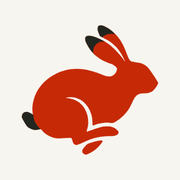
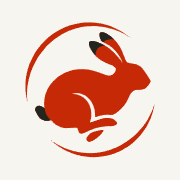
Wear the new Jackrabbit mark
The favicon set is regenerated from the new identity's mark — the
running jackrabbit in a broken motion circle, rust with moss accents —
rendered from the SVG at every size: multi-resolution favicon.ico
(16/32/48), the 32px PNG, the 180px apple-touch icon on paper, and the
footer's 40px icon. Icon links carry ?v=3 because favicons are the
most stubbornly cached files on the web.

diff --git a/about.html b/about.html
@@ -20,9 +20,9 @@
   <link rel="preload" href="assets/fonts/fraunces-latin-var.woff2" as="font" type="font/woff2" crossorigin>
   <link rel="preload" href="assets/fonts/plex-mono-400.woff2" as="font" type="font/woff2" crossorigin>
   <link rel="stylesheet" href="css/app.css?v=20260822">
-  <link rel="icon" href="assets/favicon.ico" sizes="any">
-  <link rel="icon" type="image/png" sizes="32x32" href="assets/favicon-32x32.png">
-  <link rel="apple-touch-icon" sizes="180x180" href="assets/apple-touch-icon.png">
+  <link rel="icon" href="assets/favicon.ico?v=3" sizes="any">
+  <link rel="icon" type="image/png" sizes="32x32" href="assets/favicon-32x32.png?v=3">
+  <link rel="apple-touch-icon" sizes="180x180" href="assets/apple-touch-icon.png?v=3">
 </head>
 <body class="min-h-screen flex flex-col">
   <header id="site-header"></header>

diff --git a/bowen.html b/bowen.html
@@ -20,9 +20,9 @@
   <link rel="preload" href="assets/fonts/fraunces-latin-var.woff2" as="font" type="font/woff2" crossorigin>
   <link rel="preload" href="assets/fonts/plex-mono-400.woff2" as="font" type="font/woff2" crossorigin>
   <link rel="stylesheet" href="css/app.css?v=20260822">
-  <link rel="icon" href="assets/favicon.ico" sizes="any">
-  <link rel="icon" type="image/png" sizes="32x32" href="assets/favicon-32x32.png">
-  <link rel="apple-touch-icon" sizes="180x180" href="assets/apple-touch-icon.png">
+  <link rel="icon" href="assets/favicon.ico?v=3" sizes="any">
+  <link rel="icon" type="image/png" sizes="32x32" href="assets/favicon-32x32.png?v=3">
+  <link rel="apple-touch-icon" sizes="180x180" href="assets/apple-touch-icon.png?v=3">
 </head>
 <body class="min-h-screen flex flex-col">
   <header id="site-header"></header>

diff --git a/browse.html b/browse.html
@@ -20,9 +20,9 @@
   <link rel="preload" href="assets/fonts/fraunces-latin-var.woff2" as="font" type="font/woff2" crossorigin>
   <link rel="preload" href="assets/fonts/plex-mono-400.woff2" as="font" type="font/woff2" crossorigin>
   <link rel="stylesheet" href="css/app.css?v=20260822">
-  <link rel="icon" href="assets/favicon.ico" sizes="any">
-  <link rel="icon" type="image/png" sizes="32x32" href="assets/favicon-32x32.png">
-  <link rel="apple-touch-icon" sizes="180x180" href="assets/apple-touch-icon.png">
+  <link rel="icon" href="assets/favicon.ico?v=3" sizes="any">
+  <link rel="icon" type="image/png" sizes="32x32" href="assets/favicon-32x32.png?v=3">
+  <link rel="apple-touch-icon" sizes="180x180" href="assets/apple-touch-icon.png?v=3">
 </head>
 <body class="min-h-screen flex flex-col">
   <header id="site-header"></header>

diff --git a/dog.html b/dog.html
@@ -18,9 +18,9 @@
   <link rel="preload" href="assets/fonts/fraunces-latin-var.woff2" as="font" type="font/woff2" crossorigin>
   <link rel="preload" href="assets/fonts/plex-mono-400.woff2" as="font" type="font/woff2" crossorigin>
   <link rel="stylesheet" href="css/app.css?v=20260822">
-  <link rel="icon" href="assets/favicon.ico" sizes="any">
-  <link rel="icon" type="image/png" sizes="32x32" href="assets/favicon-32x32.png">
-  <link rel="apple-touch-icon" sizes="180x180" href="assets/apple-touch-icon.png">
+  <link rel="icon" href="assets/favicon.ico?v=3" sizes="any">
+  <link rel="icon" type="image/png" sizes="32x32" href="assets/favicon-32x32.png?v=3">
+  <link rel="apple-touch-icon" sizes="180x180" href="assets/apple-touch-icon.png?v=3">
 </head>
 <body class="min-h-screen flex flex-col">
   <header id="site-header"></header>

diff --git a/events.html b/events.html
@@ -20,9 +20,9 @@
   <link rel="preload" href="assets/fonts/fraunces-latin-var.woff2" as="font" type="font/woff2" crossorigin>
   <link rel="preload" href="assets/fonts/plex-mono-400.woff2" as="font" type="font/woff2" crossorigin>
   <link rel="stylesheet" href="css/app.css?v=20260822">
-  <link rel="icon" href="assets/favicon.ico" sizes="any">
-  <link rel="icon" type="image/png" sizes="32x32" href="assets/favicon-32x32.png">
-  <link rel="apple-touch-icon" sizes="180x180" href="assets/apple-touch-icon.png">
+  <link rel="icon" href="assets/favicon.ico?v=3" sizes="any">
+  <link rel="icon" type="image/png" sizes="32x32" href="assets/favicon-32x32.png?v=3">
+  <link rel="apple-touch-icon" sizes="180x180" href="assets/apple-touch-icon.png?v=3">
 </head>
 <body class="min-h-screen flex flex-col">
   <header id="site-header"></header>

diff --git a/index.html b/index.html
@@ -20,9 +20,9 @@
   <link rel="preload" href="assets/fonts/fraunces-latin-var.woff2" as="font" type="font/woff2" crossorigin>
   <link rel="preload" href="assets/fonts/plex-mono-400.woff2" as="font" type="font/woff2" crossorigin>
   <link rel="stylesheet" href="css/app.css?v=20260822">
-  <link rel="icon" href="assets/favicon.ico" sizes="any">
-  <link rel="icon" type="image/png" sizes="32x32" href="assets/favicon-32x32.png">
-  <link rel="apple-touch-icon" sizes="180x180" href="assets/apple-touch-icon.png">
+  <link rel="icon" href="assets/favicon.ico?v=3" sizes="any">
+  <link rel="icon" type="image/png" sizes="32x32" href="assets/favicon-32x32.png?v=3">
+  <link rel="apple-touch-icon" sizes="180x180" href="assets/apple-touch-icon.png?v=3">
 </head>
 <body class="min-h-screen flex flex-col">
   <header id="site-header"></header>

diff --git a/kennels.html b/kennels.html
@@ -20,9 +20,9 @@
   <link rel="preload" href="assets/fonts/fraunces-latin-var.woff2" as="font" type="font/woff2" crossorigin>
   <link rel="preload" href="assets/fonts/plex-mono-400.woff2" as="font" type="font/woff2" crossorigin>
   <link rel="stylesheet" href="css/app.css?v=20260822">
-  <link rel="icon" href="assets/favicon.ico" sizes="any">
-  <link rel="icon" type="image/png" sizes="32x32" href="assets/favicon-32x32.png">
-  <link rel="apple-touch-icon" sizes="180x180" href="assets/apple-touch-icon.png">
+  <link rel="icon" href="assets/favicon.ico?v=3" sizes="any">
+  <link rel="icon" type="image/png" sizes="32x32" href="assets/favicon-32x32.png?v=3">
+  <link rel="apple-touch-icon" sizes="180x180" href="assets/apple-touch-icon.png?v=3">
 </head>
 <body class="min-h-screen flex flex-col">
   <header id="site-header"></header>

diff --git a/lci.html b/lci.html
@@ -20,9 +20,9 @@
   <link rel="preload" href="assets/fonts/fraunces-latin-var.woff2" as="font" type="font/woff2" crossorigin>
   <link rel="preload" href="assets/fonts/plex-mono-400.woff2" as="font" type="font/woff2" crossorigin>
   <link rel="stylesheet" href="css/app.css?v=20260822">
-  <link rel="icon" href="assets/favicon.ico" sizes="any">
-  <link rel="icon" type="image/png" sizes="32x32" href="assets/favicon-32x32.png">
-  <link rel="apple-touch-icon" sizes="180x180" href="assets/apple-touch-icon.png">
+  <link rel="icon" href="assets/favicon.ico?v=3" sizes="any">
+  <link rel="icon" type="image/png" sizes="32x32" href="assets/favicon-32x32.png?v=3">
+  <link rel="apple-touch-icon" sizes="180x180" href="assets/apple-touch-icon.png?v=3">
 </head>
 <body class="min-h-screen flex flex-col">
   <header id="site-header"></header>

diff --git a/leaders.html b/leaders.html
@@ -20,9 +20,9 @@
   <link rel="preload" href="assets/fonts/fraunces-latin-var.woff2" as="font" type="font/woff2" crossorigin>
   <link rel="preload" href="assets/fonts/plex-mono-400.woff2" as="font" type="font/woff2" crossorigin>
   <link rel="stylesheet" href="css/app.css?v=20260822">
-  <link rel="icon" href="assets/favicon.ico" sizes="any">
-  <link rel="icon" type="image/png" sizes="32x32" href="assets/favicon-32x32.png">
-  <link rel="apple-touch-icon" sizes="180x180" href="assets/apple-touch-icon.png">
+  <link rel="icon" href="assets/favicon.ico?v=3" sizes="any">
+  <link rel="icon" type="image/png" sizes="32x32" href="assets/favicon-32x32.png?v=3">
+  <link rel="apple-touch-icon" sizes="180x180" href="assets/apple-touch-icon.png?v=3">
 </head>
 <body class="min-h-screen flex flex-col">
   <header id="site-header"></header>

diff --git a/regions.html b/regions.html
@@ -20,9 +20,9 @@
   <link rel="preload" href="assets/fonts/fraunces-latin-var.woff2" as="font" type="font/woff2" crossorigin>
   <link rel="preload" href="assets/fonts/plex-mono-400.woff2" as="font" type="font/woff2" crossorigin>
   <link rel="stylesheet" href="css/app.css?v=20260822">
-  <link rel="icon" href="assets/favicon.ico" sizes="any">
-  <link rel="icon" type="image/png" sizes="32x32" href="assets/favicon-32x32.png">
-  <link rel="apple-touch-icon" sizes="180x180" href="assets/apple-touch-icon.png">
+  <link rel="icon" href="assets/favicon.ico?v=3" sizes="any">
+  <link rel="icon" type="image/png" sizes="32x32" href="assets/favicon-32x32.png?v=3">
+  <link rel="apple-touch-icon" sizes="180x180" href="assets/apple-touch-icon.png?v=3">
 </head>
 <body class="min-h-screen flex flex-col">
   <header id="site-header"></header>

diff --git a/rulebook.html b/rulebook.html
@@ -20,9 +20,9 @@
   <link rel="preload" href="assets/fonts/fraunces-latin-var.woff2" as="font" type="font/woff2" crossorigin>
   <link rel="preload" href="assets/fonts/plex-mono-400.woff2" as="font" type="font/woff2" crossorigin>
   <link rel="stylesheet" href="css/app.css?v=20260822">
-  <link rel="icon" href="assets/favicon.ico" sizes="any">
-  <link rel="icon" type="image/png" sizes="32x32" href="assets/favicon-32x32.png">
-  <link rel="apple-touch-icon" sizes="180x180" href="assets/apple-touch-icon.png">
+  <link rel="icon" href="assets/favicon.ico?v=3" sizes="any">
+  <link rel="icon" type="image/png" sizes="32x32" href="assets/favicon-32x32.png?v=3">
+  <link rel="apple-touch-icon" sizes="180x180" href="assets/apple-touch-icon.png?v=3">
 </head>
 <body class="min-h-screen flex flex-col">
   <header id="site-header"></header>

diff --git a/rulebooks.html b/rulebooks.html
@@ -20,9 +20,9 @@
   <link rel="preload" href="assets/fonts/fraunces-latin-var.woff2" as="font" type="font/woff2" crossorigin>
   <link rel="preload" href="assets/fonts/plex-mono-400.woff2" as="font" type="font/woff2" crossorigin>
   <link rel="stylesheet" href="css/app.css?v=20260822">
-  <link rel="icon" href="assets/favicon.ico" sizes="any">
-  <link rel="icon" type="image/png" sizes="32x32" href="assets/favicon-32x32.png">
-  <link rel="apple-touch-icon" sizes="180x180" href="assets/apple-touch-icon.png">
+  <link rel="icon" href="assets/favicon.ico?v=3" sizes="any">
+  <link rel="icon" type="image/png" sizes="32x32" href="assets/favicon-32x32.png?v=3">
+  <link rel="apple-touch-icon" sizes="180x180" href="assets/apple-touch-icon.png?v=3">
 </head>
 <body class="min-h-screen flex flex-col">
   <header id="site-header"></header>
